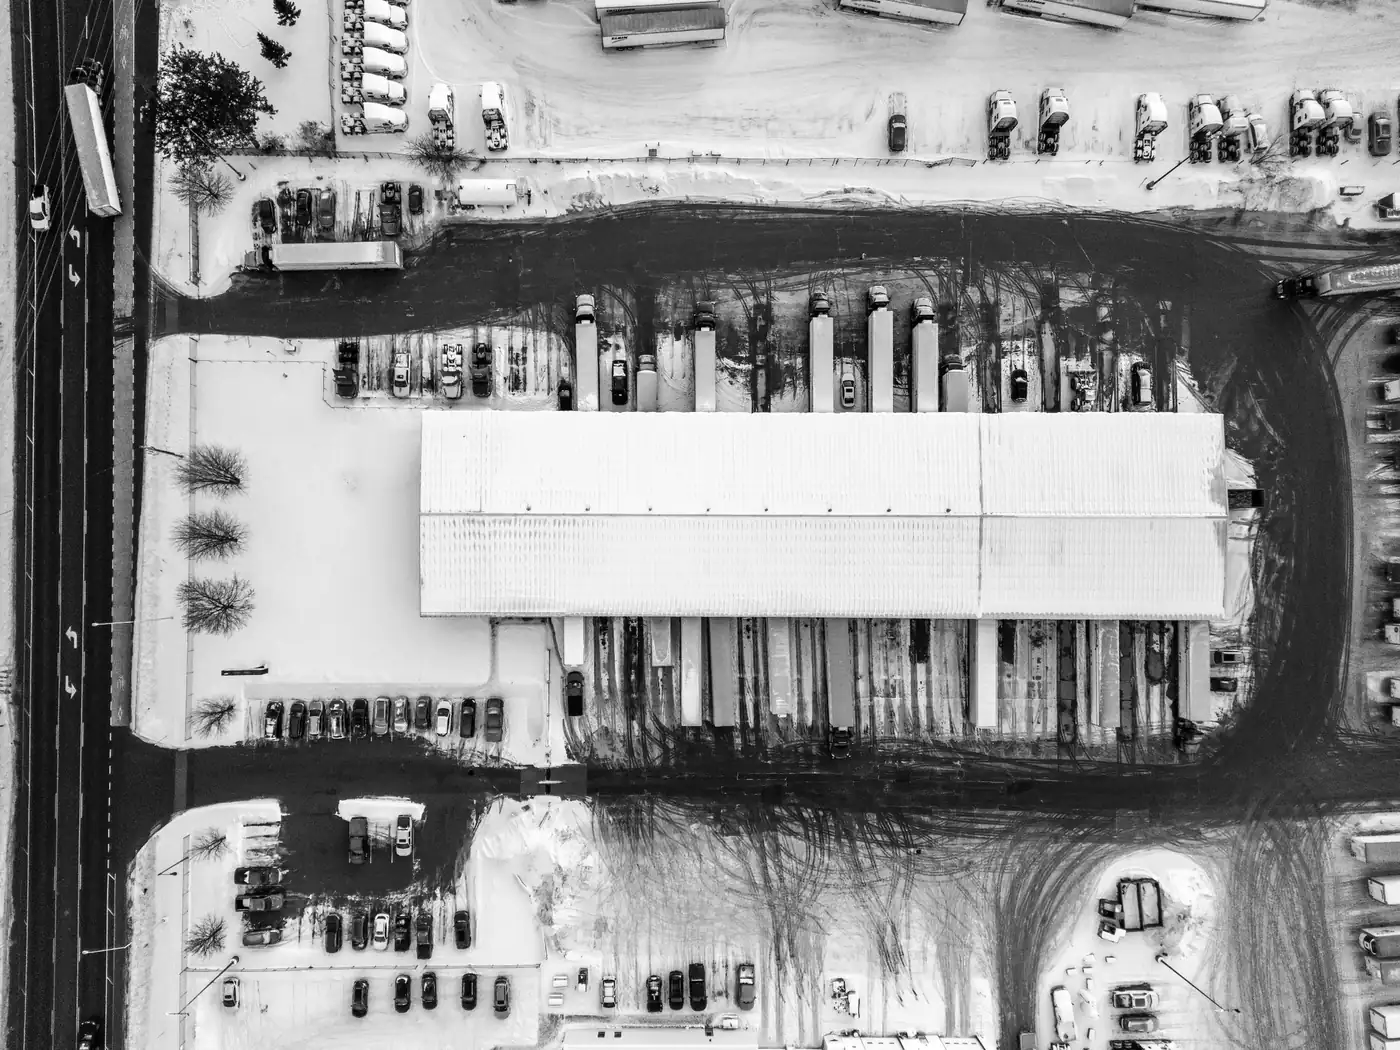
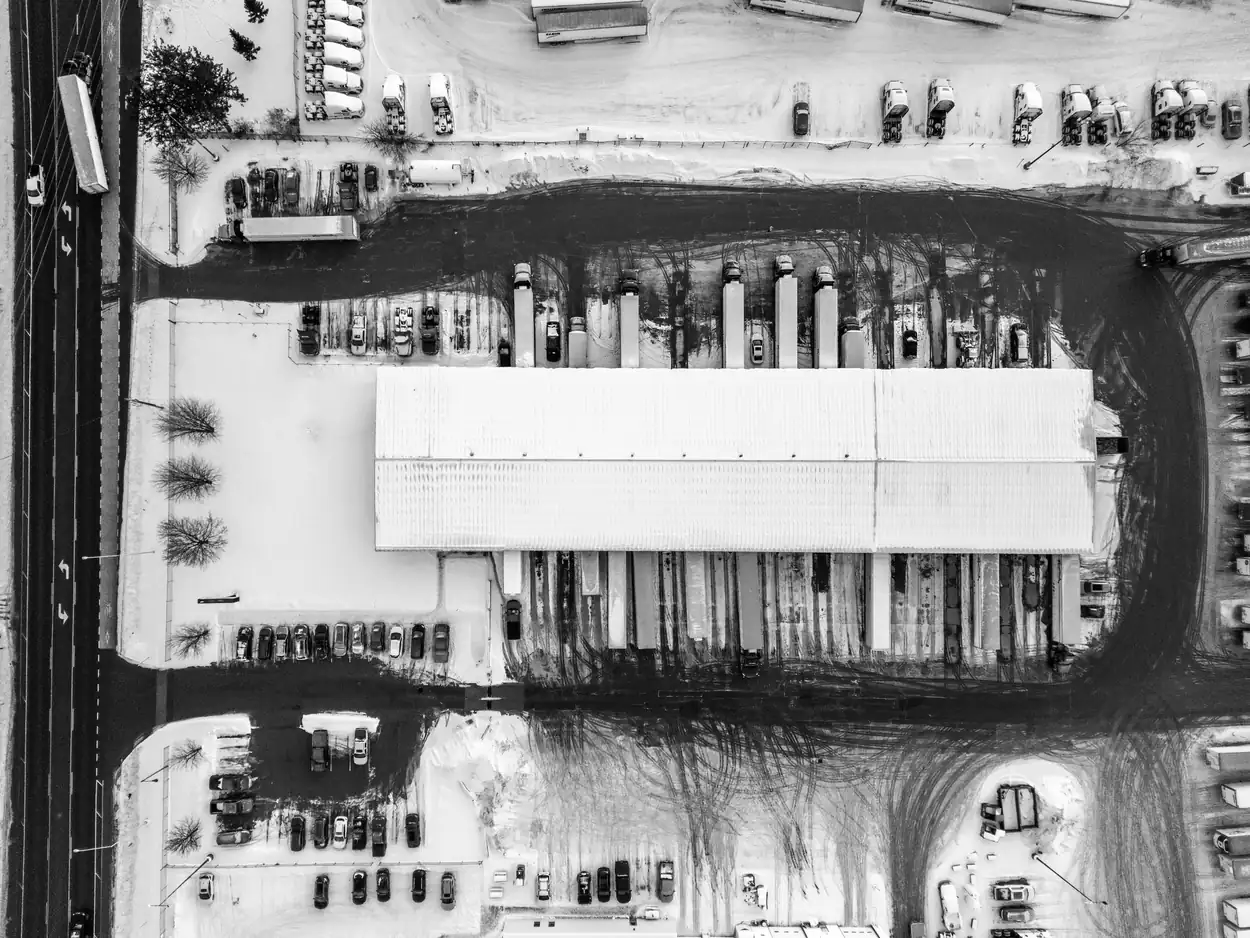
Independence line under the title, neutral H12 wording, winter page under budget
1. A small grey line under the opening title: 'Independent project. Not
   affiliated with Uber Freight.' The title names Uber Freight at hero scale,
   so independence is now stated there as well as in the footer.
2. The H12 assumptions said a northern-weighted network 'would save nothing',
   on a page badged 'not a savings claim'. Reworded to 'would have no shipments
   that would not need heat'.
3. Winter page 1,624 KB -> 1,516 KB excluding fonts, under the 1.5 MB rule,
   with nothing looking different:
   - p1 gets an 800 px card variant for the playbook, instead of the home
     page's full-bleed 1600 px file
   - p9 and p8 encoded for the box they actually fill
   - the heat-map grid ships risk as integers per mille with the day counts
     derived from the week number (70, or 42 for the short final week) rather
     than repeating ~3,000 numbers; a build-time assertion fails if that
     assumption stops holding
   - heat-map cell labels shortened without losing information
   Verified lossless: the live counts still read 330 and 286, matching ledger
   H4 and H5.

Ledger 15 of 15.

diff --git a/web/app/winter/page.tsx b/web/app/winter/page.tsx
@@ -79,21 +79,37 @@ const gridStations = [...new Set(
   weeklyRisk.filter((r) => r.period === "now").map((r) => r.station_id),
 )].sort();
 
+// Risk ships as integers per mille (0-1000), not floats: "457" instead of
+// "0.4571" across ~3,000 cells. The day count is not shipped at all — every
+// week holds 70 station-days except the short final week, which holds 42 — so
+// it is derived on the client instead of repeating 3,000 more numbers.
+const FULL_WEEK_DAYS = 70;
+const SHORT_WEEK_DAYS = 42;
+
 const gridByProduct = Object.fromEntries(
   products.map((p) => {
-    const risk = new Array<number>(gridStations.length * WEEKS).fill(0);
-    const days = new Array<number>(gridStations.length * WEEKS).fill(0);
+    const risk = new Array<number>(gridStations.length * WEEKS).fill(-1);
     for (const r of weeklyRisk) {
       if (r.product_id !== p.product_id || r.period !== "now") continue;
       const si = gridStations.indexOf(r.station_id);
       if (si < 0) continue;
-      const i = si * WEEKS + (r.season_week - 1);
-      risk[i] = Math.round(r.risk_share * 1e4) / 1e4;
-      days[i] = r.n_days;
+      risk[si * WEEKS + (r.season_week - 1)] = Math.round(r.risk_share * 1000);
     }
-    return [p.product_id, { risk, days }];
+    return [p.product_id, risk];
   }),
 );
+
+// Guard the derivation above against the data changing underneath it.
+for (const r of weeklyRisk) {
+  if (r.period !== "now") continue;
+  const expected = r.season_week === WEEKS ? SHORT_WEEK_DAYS : FULL_WEEK_DAYS;
+  if (r.n_days !== expected) {
+    throw new Error(
+      `weekly_risk week ${r.season_week} has ${r.n_days} days, expected ${expected}. ` +
+        "The heat-map grid derives day counts instead of shipping them; update both.",
+    );
+  }
+}
 
 const nowStationIds = [...new Set(weeklyRisk.filter((r) => r.period === "now").map((r) => r.station_id))];
 
@@ -267,7 +283,13 @@ export default function WinterPage() {
       <WinterExplorer
         products={productOptions}
         dumbbellByProduct={dumbbellByProduct}
-        grid={{ stations: gridStations, weeks: WEEKS, byProduct: gridByProduct }}
+        grid={{
+          stations: gridStations,
+          weeks: WEEKS,
+          fullWeekDays: FULL_WEEK_DAYS,
+          shortWeekDays: SHORT_WEEK_DAYS,
+          byProduct: gridByProduct,
+        }}
         cities={laneCities}
         heatCities={heatCities}
         weekLabels={weekLabels}
@@ -484,7 +506,7 @@ export default function WinterPage() {
           {
             n: "01 · Before booking",
             title: "Before booking",
-            image: asset("/media/p1-winter-highway-truck.webp"),
+            image: asset("/media/p1-winter-highway-truck-card.webp"),
             checklist: [
               <>Run the load check (section 01) for origin, destination and ship week.</>,
               <>Book heated equipment early: 48 to 72 hours, 7 to 10 days for bulk.</>,

diff --git a/web/components/ui/blizzard-intro.tsx b/web/components/ui/blizzard-intro.tsx
@@ -30,6 +30,9 @@ import * as React from "react";
 
 interface BlizzardIntroProps {
   title: string;
+  /** Small grey line under the title; the site's independence is stated here
+   *  as well as in the footer, because the title names Uber Freight. */
+  disclaimer: string;
   byline: string;
   statement: string;
 }
@@ -42,7 +45,7 @@ function smoothstep(edge0: number, edge1: number, x: number) {
 
 const lerp = (a: number, b: number, t: number) => a + (b - a) * t;
 
-export function BlizzardIntro({ title, byline, statement }: BlizzardIntroProps) {
+export function BlizzardIntro({ title, disclaimer, byline, statement }: BlizzardIntroProps) {
   const sectionRef = React.useRef<HTMLDivElement>(null);
   const canvasRef = React.useRef<HTMLCanvasElement>(null);
   const progressRef = React.useRef(0);
@@ -294,6 +297,7 @@ export function BlizzardIntro({ title, byline, statement }: BlizzardIntroProps) 
       <>
         <section className="flex min-h-[70svh] flex-col items-center justify-center border-b border-line px-4 py-24">
           <h1 className="statement statement-hero max-w-[18ch] text-center">{title}</h1>
+          <p className="mt-5 text-sm text-quiet">{disclaimer}</p>
           <p className="mt-10 text-sm text-quiet">{byline}</p>
         </section>
         <section className="flex min-h-[50svh] items-center justify-center border-b border-line px-4 py-24">
@@ -319,6 +323,13 @@ export function BlizzardIntro({ title, byline, statement }: BlizzardIntroProps) 
           >
             {title}
           </motion.h1>
+
+          <motion.p
+            style={{ opacity: titleOpacity }}
+            className="mt-5 text-center text-sm text-quiet"
+          >
+            {disclaimer}
+          </motion.p>
 
           <motion.p
             style={{ opacity: statementOpacity, y: statementY }}

diff --git a/web/components/winter/winter-explorer.tsx b/web/components/winter/winter-explorer.tsx
@@ -45,7 +45,10 @@ export function WinterExplorer({
   grid: {
     stations: string[];
     weeks: number;
-    byProduct: Record<string, { risk: number[]; days: number[] }>;
+    fullWeekDays: number;
+    shortWeekDays: number;
+    /** Risk per mille (0-1000) per cell; -1 where there is no cell. */
+    byProduct: Record<string, number[]>;
   };
   cities: LaneCity[];
   heatCities: HeatCity[];
@@ -73,9 +76,14 @@ export function WinterExplorer({
     const out: HeatCell[] = [];
     for (let si = 0; si < grid.stations.length; si++) {
       for (let wi = 0; wi < grid.weeks; wi++) {
-        const i = si * grid.weeks + wi;
-        if (!g.days[i]) continue;
-        out.push({ s: grid.stations[si], w: wi + 1, r: g.risk[i], d: g.days[i] });
+        const v = g[si * grid.weeks + wi];
+        if (v < 0) continue;
+        out.push({
+          s: grid.stations[si],
+          w: wi + 1,
+          r: v / 1000,
+          d: wi + 1 === grid.weeks ? grid.shortWeekDays : grid.fullWeekDays,
+        });
       }
     }
     return out;

diff --git a/web/components/calculators/illustrative-saving.tsx b/web/components/calculators/illustrative-saving.tsx
@@ -99,8 +99,8 @@ export function IllustrativeSaving({
           <li className="flex gap-2.5">
             <span aria-hidden="true" className="mt-2 h-px w-3 shrink-0 bg-mute" />
             The shipments are spread <strong>evenly across the city-weeks analysed</strong>. A real
-            lane mix is not even, and a network weighted towards Minneapolis or Denver would save
-            nothing here: those cities heat all 22 weeks.
+            lane mix is not even, and a network weighted towards Minneapolis or Denver would have
+            no shipments that would not need heat: those cities heat all 22 weeks.
           </li>
           <li className="flex gap-2.5">
             <span aria-hidden="true" className="mt-2 h-px w-3 shrink-0 bg-mute" />

diff --git a/web/components/charts/heatmap.tsx b/web/components/charts/heatmap.tsx
@@ -180,7 +180,7 @@ export function HeatMap({
                       strokeWidth={heated ? 1.5 : 0.75}
                       tabIndex={0}
                       role="button"
-                      aria-label={`${c.city}, week ${w}, ${weekLabels[wi]}: ${(d.r * 100).toFixed(0)} percent of ${d.d} days break the rule. ${heated ? "Heat" : "Skip"}.`}
+                      aria-label={`${c.city} week ${w}: ${(d.r * 100).toFixed(0)}% of ${d.d} days. ${heated ? "Heat" : "Skip"}.`}
                       onMouseEnter={() => setHover(d)}
                       onMouseLeave={() => setHover(null)}
                       onFocus={() => setHover(d)}

diff --git a/web/app/page.tsx b/web/app/page.tsx
@@ -73,6 +73,7 @@ export default function HomePage() {
           the statement revealed as the storm clears. */}
       <BlizzardIntro
         title="Uber Freight portfolio project"
+        disclaimer="Independent project. Not affiliated with Uber Freight."
         byline="Sofia Mota"
         statement="See why carriers say no"
       />

diff --git a/pipeline/build_media.py b/pipeline/build_media.py
@@ -23,17 +23,29 @@ MAX_KB = 200
 # in roughly 400-500 px slots, so shipping them at 1600 px was paying three
 # times over for pixels no one sees. Only the two full-bleed photos stay large.
 MAX_EDGE_OVERRIDE = {
-    "p9-closing-band-aerial-terminal.jpg": 1400,  # winter hero, full-bleed
+    "p9-closing-band-aerial-terminal.jpg": 1250,  # winter hero, full-bleed
     "p1-winter-highway-truck.jpg": 1600,          # home winter band, full-bleed
     "p2-steel-drums.jpg": 900,                    # reveal card
     "p4-bulk-tank-trailer.jpg": 900,              # reveal card
     "p7-cold-snap-street.jpg": 900,               # reveal card + playbook card
-    "p8-arrived-cold.jpg": 900,                   # playbook card
+    "p8-arrived-cold.jpg": 720,                   # playbook card
 }
 
 # The winter hero sits at 100% behind a dark gradient wash, so it tolerates
 # heavier compression than a photo being read directly.
-MAX_KB_OVERRIDE = {"p9-closing-band-aerial-terminal.jpg": 150}
+MAX_KB_OVERRIDE = {
+    # Sits at full bleed under a heavy dark gradient, so it carries far more
+    # compression than a photo being read directly.
+    "p9-closing-band-aerial-terminal.jpg": 128,
+}
+
+# Some photos appear full-bleed on one page and inside a small card on another.
+# Shipping one 1600 px file to both means the card page pays for pixels it never
+# shows, so those get a second, card-sized variant. Same picture, same crop.
+VARIANTS = {
+    # p1 is a full-bleed band on the home page and a playbook card on /winter.
+    "p1-winter-highway-truck.jpg": [("-card", 800)],
+}
 
 # Photos listed in design/MEDIA_LIST.md. Converted to WebP.
 PHOTOS = [
@@ -87,6 +99,8 @@ def main() -> int:
         line = convert(src, OUT / (Path(name).stem + ".webp"),
                        MAX_EDGE_OVERRIDE.get(name, MAX_EDGE),
                        MAX_KB_OVERRIDE.get(name, MAX_KB))
+        for suffix, edge in VARIANTS.get(name, []):
+            print(convert(src, OUT / (Path(name).stem + suffix + ".webp"), edge, MAX_KB))
         if "OVER BUDGET" in line:
             over.append(line)
         print(line)
